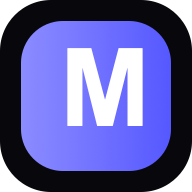
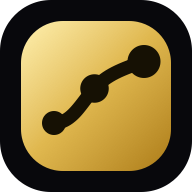
fix(web): rebuild broken iOS install sheet, add original brand mark
- InstallAppPrompt: iOS bottom sheet had zero matching CSS rules
  anywhere in globals.css, rendering fully unstyled; also used a
  native <ol> that double-rendered step numbers. Rebuilt the sheet
  as a proper fixed bottom sheet (safe-area padding, backdrop,
  body-scroll-lock, single close button, rounded top corners,
  no clipped buttons) with the plain-English copy required.
- Added BrandGlyph: an original SVG mark (ascending momentum trail
  through three connected nodes) replacing the placeholder "M"
  glyph everywhere it appeared (landing, auth pages, onboarding,
  install prompt, admin, user app), plus regenerated favicon/PWA
  icon assets from it.
- layout.tsx: fixed stale metadataBase pointing at an old Hostinger
  temp domain, added missing OpenGraph/Twitter share image.

diff --git a/apps/web/app/globals.css b/apps/web/app/globals.css
@@ -185,3 +185,31 @@ body{background:radial-gradient(900px 520px at 88% -8%,rgba(224,184,79,.075),tra
 }
 @media(max-width:620px){
  .app-main,.admin-main{padding:14px 12px 100px}.app-top,.admin-head{margin:-14px -12px 10px;padding:12px}.app-top h1,.admin-head h1{font-size:20px}.app-top small,.admin-head small{font-size:8px}.auto-toggle{font-size:9px;padding:8px}.app-grid-4,.admin-kpi-row{grid-template-columns:1fr 1fr;gap:7px}.stat-card{padding:12px}.stat-card>b{font-size:19px}.user-welcome{padding:18px}.user-welcome h2{font-size:34px}.user-quick-actions{grid-template-columns:repeat(3,1fr);gap:6px}.user-quick-actions button{padding:11px 7px;font-size:9px}.trader-grid{grid-template-columns:1fr}.admin-quick-grid{grid-template-columns:1fr 1fr}.admin-quick-grid button,.admin-quick-grid a{padding:11px}.owner-hero{grid-template-columns:1fr}.owner-mode{justify-self:stretch}.mobile-app-nav button,.admin-mobile-nav button{font-size:8px}.mobile-app-nav button svg,.admin-mobile-nav button svg{width:18px;height:18px}.copy-row{grid-template-columns:1fr auto!important}.copy-row .status-badge{display:none}.admin-table{min-width:760px}.admin-table-wrap{overflow:auto;border-radius:14px}.config-tabs{overflow-x:auto;flex-wrap:nowrap;padding-bottom:4px}.config-tabs button{white-space:nowrap}.form-grid{grid-template-columns:1fr}.health-grid{grid-template-columns:1fr 1fr}}
+
+/* Install prompt: iOS bottom sheet */
+.install-ios-wrap{position:fixed;inset:0;z-index:200;display:flex;align-items:flex-end;justify-content:center;background:rgba(4,4,7,.6);backdrop-filter:blur(3px);padding:0;box-sizing:border-box}
+.install-ios-sheet{position:relative;width:100%;max-width:480px;max-height:80dvh;overflow-y:auto;-webkit-overflow-scrolling:touch;background:#101018;border:1px solid rgba(255,255,255,.08);border-bottom:0;border-radius:24px 24px 0 0;padding:14px 20px calc(20px + env(safe-area-inset-bottom));box-sizing:border-box;box-shadow:0 -20px 60px rgba(0,0,0,.5);animation:install-sheet-up .22s ease-out}
+@keyframes install-sheet-up{from{transform:translateY(100%)}to{transform:translateY(0)}}
+.install-ios-handle{width:36px;height:4px;border-radius:2px;background:rgba(255,255,255,.18);margin:0 auto 14px}
+.install-ios-close{position:absolute;top:14px;right:16px;width:32px;height:32px;border-radius:50%;border:1px solid rgba(255,255,255,.1);background:rgba(255,255,255,.04);color:#c9cbd4;display:grid;place-items:center;cursor:pointer;flex-shrink:0}
+.install-ios-head{display:flex;flex-direction:column;align-items:center;text-align:center;gap:8px;padding-right:0;margin-bottom:4px}
+.install-ios-head .install-brand-icon{width:52px;height:52px;border-radius:16px;background:linear-gradient(135deg,#fff0ae 0%,#e0b84f 48%,#ad7c17 100%);display:grid;place-items:center;box-shadow:0 10px 24px -10px rgba(224,184,79,.5)}
+.install-ios-head b{font-size:19px;letter-spacing:-.02em;color:#f7f3ea}
+.install-ios-head p{margin:0;font-size:13px;color:#9a9fb0;max-width:280px;line-height:1.4}
+.install-ios-browser-note{font-size:11px;color:#e8b96d;text-align:center;background:rgba(247,185,95,.08);border:1px solid rgba(247,185,95,.18);border-radius:12px;padding:9px 12px;margin:12px 0 0}
+.install-ios-steps{display:grid;gap:10px;margin:18px 0}
+.install-step{display:flex;align-items:center;gap:12px}
+.install-step i{flex-shrink:0;width:26px;height:26px;border-radius:50%;background:rgba(224,184,79,.14);color:#e8b96d;display:grid;place-items:center;font-style:normal;font-weight:700;font-size:12px}
+.install-step span{display:flex;align-items:center;gap:6px;font-size:13.5px;color:#dcdee6;flex-wrap:wrap}
+.install-done{width:100%;height:46px;border-radius:14px;border:0;background:linear-gradient(135deg,#fff0ae 0%,#e0b84f 48%,#ad7c17 100%);color:#161104;font-weight:750;font-size:14px;cursor:pointer;margin-top:4px}
+
+/* Install prompt: Android/desktop bottom banner */
+.install-prompt-wrap{position:fixed;left:12px;right:12px;bottom:calc(12px + env(safe-area-inset-bottom));z-index:200;display:flex;justify-content:center}
+.install-prompt{width:100%;max-width:460px;display:flex;align-items:center;gap:12px;background:#101018;border:1px solid rgba(255,255,255,.09);border-radius:18px;padding:12px 14px;box-shadow:0 14px 40px rgba(0,0,0,.4);box-sizing:border-box}
+.install-prompt .install-brand-icon{width:36px;height:36px;border-radius:11px;background:linear-gradient(135deg,#fff0ae 0%,#e0b84f 48%,#ad7c17 100%);display:grid;place-items:center;flex-shrink:0}
+.install-copy{flex:1;min-width:0;display:grid;gap:2px}
+.install-copy b{font-size:12.5px;color:#f7f3ea}
+.install-copy span{font-size:10.5px;color:#9a9fb0;overflow:hidden;text-overflow:ellipsis;white-space:nowrap}
+.install-action{flex-shrink:0;display:flex;align-items:center;gap:6px;height:36px;padding:0 13px;border-radius:11px;border:0;background:linear-gradient(135deg,#fff0ae 0%,#e0b84f 48%,#ad7c17 100%);color:#161104;font-weight:700;font-size:11.5px;cursor:pointer}
+.install-close{flex-shrink:0;width:30px;height:30px;border-radius:50%;border:1px solid rgba(255,255,255,.1);background:transparent;color:#8a8fa0;display:grid;place-items:center;cursor:pointer}
+@media(max-width:420px){.install-ios-sheet{padding:14px 16px calc(18px + env(safe-area-inset-bottom))}.install-ios-head p{max-width:240px}}

diff --git a/apps/web/components/InstallAppPrompt.tsx b/apps/web/components/InstallAppPrompt.tsx
@@ -2,6 +2,7 @@
 
 import { useEffect, useState } from "react";
 import { Download, PlusSquare, Share, X } from "lucide-react";
+import {BrandGlyph} from "./BrandGlyph";
 
 const DISMISSED_KEY = "memecloud_install_dismissed_at";
 const INSTALLED_KEY = "memecloud_install_completed_at";
@@ -48,7 +49,7 @@ export function InstallAppPrompt() {
     if (location.pathname !== "/") return;
     const details = platformDetails();
     setPlatform(details);
-    if (details.isStandalone) return;
+    if (details.isStandalone) return; // never show once running as an installed PWA
     if (recentStorageValue(DISMISSED_KEY, DISMISS_COOLDOWN_MS) ||
       recentStorageValue(INSTALLED_KEY, INSTALLED_COOLDOWN_MS)) return;
 
@@ -72,6 +73,13 @@ export function InstallAppPrompt() {
     };
   }, []);
 
+  useEffect(() => {
+    if (!visible || !platform?.isIOS) return;
+    const prev = document.body.style.overflow;
+    document.body.style.overflow = "hidden";
+    return () => { document.body.style.overflow = prev; };
+  }, [visible, platform?.isIOS]);
+
   if (!platform || !visible || platform.isStandalone) return null;
 
   function dismiss() {
@@ -89,20 +97,21 @@ export function InstallAppPrompt() {
     setDeferred(null);
   }
 
-  if (platform.isIOS) return <div className="install-ios-wrap" data-testid="install-ios-guide">
-    <section className="install-ios-sheet" role="dialog" aria-modal="false" aria-labelledby="install-ios-title">
+  if (platform.isIOS) return <div className="install-ios-wrap" onClick={dismiss}>
+    <section className="install-ios-sheet" role="dialog" aria-modal="true" aria-labelledby="install-ios-title" onClick={e=>e.stopPropagation()}>
       <div className="install-ios-handle" />
+      <button className="install-ios-close" onClick={dismiss} aria-label="Close"><X size={18}/></button>
       <div className="install-ios-head">
-        <div className="install-brand-icon" aria-hidden="true">M</div>
-        <div><span>INSTALL MemeCloud</span><b id="install-ios-title">Use MemeCloud like a native app.</b></div>
-        <button onClick={dismiss} aria-label="Dismiss install guide"><X size={18}/></button>
+        <div className="install-brand-icon" aria-hidden="true"><BrandGlyph size={26}/></div>
+        <b id="install-ios-title">Install MemeCloud</b>
+        <p>Use MemeCloud like an app on your iPhone.</p>
       </div>
-      {!platform.isSafari && <p className="install-ios-browser-note">For the standard Home Screen experience, open this page in Safari first.</p>}
-      <ol className="install-ios-steps">
-        <li><i>1</i><div><b>Tap the Share button</b><span><Share size={15}/> Find Share in the Safari toolbar.</span></div></li>
-        <li><i>2</i><div><b>Choose “Add to Home Screen”</b><span><PlusSquare size={15}/> Scroll down if it is not immediately visible.</span></div></li>
-        <li><i>3</i><div><b>Tap Add</b><span>MemeCloud will open full-screen at secure sign-in from your Home Screen.</span></div></li>
-      </ol>
+      {!platform.isSafari && <p className="install-ios-browser-note">Open this page in Safari to install it.</p>}
+      <div className="install-ios-steps">
+        <div className="install-step"><i>1</i><span>Tap <Share size={14}/> Share</span></div>
+        <div className="install-step"><i>2</i><span>Tap <PlusSquare size={14}/> "Add to Home Screen"</span></div>
+        <div className="install-step"><i>3</i><span>Tap "Add"</span></div>
+      </div>
       <button className="install-done" onClick={dismiss}>Got it</button>
     </section>
   </div>;
@@ -111,7 +120,7 @@ export function InstallAppPrompt() {
 
   return <div className="install-prompt-wrap" data-testid="install-app-banner" data-platform={platform.isAndroid ? "android" : "desktop"}>
     <section className="install-prompt">
-        <div className="install-brand-icon" aria-hidden="true">M</div>
+        <div className="install-brand-icon" aria-hidden="true"><BrandGlyph size={22}/></div>
         <div className="install-copy"><b>Install MemeCloud</b><span>Open MemeCloud like a native app.</span></div>
         <button className="install-action" onClick={install} data-testid="install-app-btn"><Download size={14}/> Install</button>
         <button className="install-close" onClick={dismiss} aria-label="Dismiss install prompt"><X size={17}/></button>

diff --git a/apps/web/app/admin/page.tsx b/apps/web/app/admin/page.tsx
@@ -2,6 +2,7 @@
 import {useEffect,useState} from "react";
 import {apiFetch,plainError,money} from "../../lib/api";
 import {Users,Radio,WalletCards,Settings2,Mail,Bell,Send,Activity,ShieldCheck,BarChart3,RefreshCw,Plus,KeyRound,Gauge,SlidersHorizontal,ChevronRight,Home,Wallet,Database,PlugZap,Coins,Fish,AlertTriangle,Layers} from "lucide-react";
+import {BrandGlyph} from "../../components/BrandGlyph";
 
 const sections=[
  ["overview","Control",Gauge],["brain","Global Brain",BarChart3],["tokens","Tokens",Coins],["whales","Whales",Fish],["users","Users",Users],["traders","Wallets",Radio],["signals","Decisions",Activity],
@@ -41,7 +42,7 @@ export default function Admin(){
  useEffect(()=>{void load("overview")},[]);
  function change(t:string){setTab(t);void load(t)}
  return <main className="admin-layout">
-  <aside className="admin-side"><a className="brand" href="/app/"><span className="brandmark small">M</span><span><b>MemeCloud</b><small>Owner controls</small></span></a><nav>{navGroups.map(([label,ids])=><div className="admin-nav-group" key={label}><small>{label}</small>{ids.map(id=>{const s=sections.find(x=>x[0]===id);if(!s)return null;const[,name,Icon]=s;return <button key={id} data-admin-target={id} className={tab===id?"active":""} onClick={()=>change(id)}><Icon size={15}/><span>{name}</span></button>})}</div>)}</nav><div className="admin-side-foot"><div className="owner-chip"><ShieldCheck size={15}/><div><b>{me?.displayName||"Platform owner"}</b><small>{me?.email||"Full control"}</small></div></div><a className="soft-action" href="/app/"><Home size={13}/> Back to MemeCloud</a></div></aside>
+  <aside className="admin-side"><a className="brand" href="/app/"><span className="brandmark small"><BrandGlyph size={18}/></span><span><b>MemeCloud</b><small>Owner controls</small></span></a><nav>{navGroups.map(([label,ids])=><div className="admin-nav-group" key={label}><small>{label}</small>{ids.map(id=>{const s=sections.find(x=>x[0]===id);if(!s)return null;const[,name,Icon]=s;return <button key={id} data-admin-target={id} className={tab===id?"active":""} onClick={()=>change(id)}><Icon size={15}/><span>{name}</span></button>})}</div>)}</nav><div className="admin-side-foot"><div className="owner-chip"><ShieldCheck size={15}/><div><b>{me?.displayName||"Platform owner"}</b><small>{me?.email||"Full control"}</small></div></div><a className="soft-action" href="/app/"><Home size={13}/> Back to MemeCloud</a></div></aside>
   <section className="admin-main"><div className="admin-head"><div><small>MemeCloud · OWNER CONTROL</small><h1>{sections.find(x=>x[0]===tab)?.[1]}</h1><p>{tab==="overview"?"Run the platform from one place.":tab==="config"?"APIs, fees, email, push, discovery and trading rules.":"Real platform data and controls."}</p></div><button className="soft-action" onClick={()=>load()}><RefreshCw size={12}/> Refresh</button></div>
    {err&&<div className="auth-error">{err}</div>}{loading&&!err?<div className="loading"><div><div className="spinner"/>Loading admin data…</div></div>:<>
     {tab==="overview"&&<Overview d={data}/>}

diff --git a/apps/web/app/onboarding/page.tsx b/apps/web/app/onboarding/page.tsx
@@ -2,6 +2,7 @@
 import {useEffect,useMemo,useState} from "react";
 import {ArrowRight,ArrowLeft,Check,Users,WalletCards,Bell,ShieldCheck,Zap} from "lucide-react";
 import {apiFetch,money,plainError} from "../../lib/api";
+import {BrandGlyph} from "../../components/BrandGlyph";
 
 function toBase64(bytes:Uint8Array){let s="";bytes.forEach(b=>s+=String.fromCharCode(b));return btoa(s)}
 export default function Onboarding(){
@@ -12,7 +13,7 @@ export default function Onboarding(){
  async function finish(){setBusy(true);setErr("");try{await apiFetch("/v1/me/onboarding",{method:"POST",body:JSON.stringify({traderIds:selected,defaultAmountUsd:amount,autoCopyEnabled:auto})});location.href="/app/"}catch(e){setErr(plainError(e));setBusy(false)}}
  if(busy&&!data)return <main className="app-page"><div className="loading"><div><div className="spinner"/>Preparing your account…</div></div></main>;
  const steps=["Welcome","Wallet","Traders","Trading","Review"];
- return <main className="onboarding-page"><div className="onboarding-shell"><a className="brand" href="/"><span className="brandmark small">M</span><b>MemeCloud</b></a><div className="onboarding-progress">{steps.map((s,i)=><div key={s} className={i<=step?"active":""}><i>{i<step?<Check size={12}/>:i+1}</i><span>{s}</span></div>)}</div>
+ return <main className="onboarding-page"><div className="onboarding-shell"><a className="brand" href="/"><span className="brandmark small"><BrandGlyph size={18}/></span><b>MemeCloud</b></a><div className="onboarding-progress">{steps.map((s,i)=><div key={s} className={i<=step?"active":""}><i>{i<step?<Check size={12}/>:i+1}</i><span>{s}</span></div>)}</div>
   {err&&<div className="auth-error">{err}</div>}
   <section className="onboarding-card">
    {step===0&&<><span className="eyebrow">YOUR PRIVATE TRADING WORKSPACE</span><h1>Set up the account around you.</h1><p>Your traders, copy amounts, positions, history and notifications are private to this account. We monitor each source wallet once and make an independent decision for you.</p><div className="onboard-features"><div><Users/><b>Your traders</b><span>Follow, Watch or Auto Copy independently.</span></div><div><Zap/><b>24/7 engine</b><span>The VPS keeps monitoring after you close the app.</span></div><div><ShieldCheck/><b>You stay in control</b><span>Login is separate from trading authorization.</span></div></div></>}

diff --git a/apps/web/app/reset-password/page.tsx b/apps/web/app/reset-password/page.tsx
@@ -1,7 +1,8 @@
 "use client";
 import {useState} from "react"; import {apiFetch,plainError} from "../../lib/api";
+import {BrandGlyph} from "../../components/BrandGlyph";
 export default function Reset(){
  const[pw,setPw]=useState("");const[msg,setMsg]=useState("");const[err,setErr]=useState("");
  async function go(e:React.FormEvent){e.preventDefault();setErr("");const token=new URLSearchParams(location.search).get("token")||"";try{await apiFetch("/auth/reset-password",{method:"POST",body:JSON.stringify({token,password:pw})},false);setMsg("Password changed. You can sign in now.");}catch(e){setErr(plainError(e))}}
- return <main className="auth-page" style={{gridTemplateColumns:"1fr"}}><section className="auth-box-wrap"><div className="auth-box"><a className="brand" href="/"><span className="brandmark small">M</span><b>MemeCloud</b></a><h2>Choose a new password</h2><form className="auth-form" onSubmit={go}><label className="field"><span>New password</span><input type="password" value={pw} onChange={e=>setPw(e.target.value)} minLength={8} required/></label>{msg&&<div className="auth-success">{msg}</div>}{err&&<div className="auth-error">{err}</div>}<button className="action-primary">Save new password</button></form><div className="form-foot"><a href="/login/">Sign in</a></div></div></section></main>
+ return <main className="auth-page" style={{gridTemplateColumns:"1fr"}}><section className="auth-box-wrap"><div className="auth-box"><a className="brand" href="/"><span className="brandmark small"><BrandGlyph size={18}/></span><b>MemeCloud</b></a><h2>Choose a new password</h2><form className="auth-form" onSubmit={go}><label className="field"><span>New password</span><input type="password" value={pw} onChange={e=>setPw(e.target.value)} minLength={8} required/></label>{msg&&<div className="auth-success">{msg}</div>}{err&&<div className="auth-error">{err}</div>}<button className="action-primary">Save new password</button></form><div className="form-foot"><a href="/login/">Sign in</a></div></div></section></main>
 }

diff --git a/apps/web/app/forgot-password/page.tsx b/apps/web/app/forgot-password/page.tsx
@@ -1,7 +1,8 @@
 "use client";
 import {useState} from "react"; import {apiFetch,plainError} from "../../lib/api";
+import {BrandGlyph} from "../../components/BrandGlyph";
 export default function Forgot(){
  const[email,setEmail]=useState("");const[msg,setMsg]=useState("");const[err,setErr]=useState("");
  async function go(e:React.FormEvent){e.preventDefault();setErr("");try{await apiFetch("/auth/forgot-password",{method:"POST",body:JSON.stringify({email})},false);setMsg("If that email exists, a reset link has been sent.");}catch(e){setErr(plainError(e))}}
- return <main className="auth-page" style={{gridTemplateColumns:"1fr"}}><section className="auth-box-wrap"><div className="auth-box"><a className="brand" href="/"><span className="brandmark small">M</span><b>MemeCloud</b></a><h2>Reset password</h2><p>Enter your account email.</p><form className="auth-form" onSubmit={go}><label className="field"><span>Email</span><input type="email" value={email} onChange={e=>setEmail(e.target.value)} required/></label>{msg&&<div className="auth-success">{msg}</div>}{err&&<div className="auth-error">{err}</div>}<button className="action-primary">Send reset link</button></form><div className="form-foot"><a href="/login/">Back to sign in</a></div></div></section></main>
+ return <main className="auth-page" style={{gridTemplateColumns:"1fr"}}><section className="auth-box-wrap"><div className="auth-box"><a className="brand" href="/"><span className="brandmark small"><BrandGlyph size={18}/></span><b>MemeCloud</b></a><h2>Reset password</h2><p>Enter your account email.</p><form className="auth-form" onSubmit={go}><label className="field"><span>Email</span><input type="email" value={email} onChange={e=>setEmail(e.target.value)} required/></label>{msg&&<div className="auth-success">{msg}</div>}{err&&<div className="auth-error">{err}</div>}<button className="action-primary">Send reset link</button></form><div className="form-foot"><a href="/login/">Back to sign in</a></div></div></section></main>
 }

diff --git a/apps/web/components/AuthCard.tsx b/apps/web/components/AuthCard.tsx
@@ -2,6 +2,7 @@
 import { useState } from "react";
 import { ArrowRight, WalletCards, CheckCircle2, ShieldCheck, Zap } from "lucide-react";
 import { apiFetch, login, signup, setAccessToken, plainError } from "../lib/api";
+import {BrandGlyph} from "./BrandGlyph";
 
 function toBase64(bytes:Uint8Array){
   let s=""; bytes.forEach(b=>s+=String.fromCharCode(b)); return btoa(s);
@@ -39,7 +40,7 @@ export default function AuthCard({mode}:{mode:"login"|"signup"}){
 
   return <div className="auth-page">
     <section className="auth-art">
-      <a className="brand" href="/"><span className="brandmark">M</span><b>MemeCloud</b></a>
+      <a className="brand" href="/"><span className="brandmark"><BrandGlyph size={24}/></span><b>MemeCloud</b></a>
       <div className="auth-art-copy"><span>AUTONOMOUS CRYPTO INTELLIGENCE</span><h1>Discover.<br/>Decide.<br/>Manage.</h1><p>Your private MemeCloud workspace combines market discovery, wallet intelligence, scoring, execution controls and position management without fabricating account data.</p></div>
       <div className="auth-points">
         <div className="auth-point"><CheckCircle2 size={15}/> Follow, watch or Auto Copy each trader independently</div>
@@ -49,7 +50,7 @@ export default function AuthCard({mode}:{mode:"login"|"signup"}){
     </section>
     <section className="auth-box-wrap">
       <div className="auth-box">
-        <a className="brand" href="/"><span className="brandmark small">M</span><b>MemeCloud</b></a>
+        <a className="brand" href="/"><span className="brandmark small"><BrandGlyph size={18}/></span><b>MemeCloud</b></a>
         <h2>{mode==="signup"?"Create your account":"Welcome back"}</h2>
         <p>{mode==="signup"?"Start with an account, then choose your traders and connect a trading wallet separately.":"Sign in to your private dashboard."}</p>
         <form className="auth-form" onSubmit={submit}>

diff --git a/apps/web/app/page.tsx b/apps/web/app/page.tsx
@@ -1,13 +1,14 @@
 "use client";
 import { ArrowRight, CheckCircle2 } from "lucide-react";
 import { InstallAppPrompt } from "../components/InstallAppPrompt";
+import {BrandGlyph} from "../components/BrandGlyph";
 
 export default function Landing(){
   return <main className="landing">
     <div className="landing-glow one"/><div className="landing-glow two"/>
     <div className="public-shell">
       <header className="public-header">
-        <a className="brand" href="/"><span className="brandmark">M</span><b>MemeCloud</b></a>
+        <a className="brand" href="/"><span className="brandmark"><BrandGlyph size={24}/></span><b>MemeCloud</b></a>
         <div className="public-actions"><a className="ghost-link" href="/login/">Sign in</a><a className="primary-link" href="/signup/">Start trading <ArrowRight size={16}/></a></div>
       </header>
 
@@ -19,7 +20,7 @@ export default function Landing(){
 
         <div className="product-preview">
           <div className="preview-side">
-            <span className="brandmark small">M</span>
+            <span className="brandmark small"><BrandGlyph size={18}/></span>
             <i/><i/><i/><i/><i/>
           </div>
           <div className="preview-body">
@@ -37,7 +38,7 @@ export default function Landing(){
         </div>
       </section>
 
-      <footer className="public-footer"><div className="brand"><span className="brandmark small">M</span><b>MemeCloud</b></div><span>Simulation until you go live</span></footer>
+      <footer className="public-footer"><div className="brand"><span className="brandmark small"><BrandGlyph size={18}/></span><b>MemeCloud</b></div><span>Simulation until you go live</span></footer>
     </div>
     <InstallAppPrompt/>
   </main>

diff --git a/apps/web/app/app/page.tsx b/apps/web/app/app/page.tsx
@@ -6,6 +6,7 @@ import {
   TrendingUp,Flame,Sparkles,CheckCheck,ArrowLeft,Wallet,Zap,ArrowDownToLine
 } from "lucide-react";
 import {apiFetch,logout,money,pct,plainError} from "../../lib/api";
+import {BrandGlyph} from "../../components/BrandGlyph";
 
 type View="home"|"discover"|"trade"|"positions"|"profile"|"traders"|"community"|"activity";
 const nav:[View,string,any][]=[["home","Home",Home],["discover","Discover",TrendingUp],["trade","Trade",Zap],["positions","Portfolio",WalletCards],["profile","Account",Settings2]];
@@ -95,7 +96,7 @@ export default function AppPage(){
   return <main className="app-page">
     <div className="app-layout">
       <aside className="app-sidebar">
-        <a className="brand" href="/"><span className="brandmark small">M</span><b>MemeCloud</b></a>
+        <a className="brand" href="/"><span className="brandmark small"><BrandGlyph size={18}/></span><b>MemeCloud</b></a>
         <nav className="app-nav">{nav.map(([id,label,Icon])=><button key={id} onClick={()=>setView(id)} className={view===id?"active":""}><Icon size={16}/>{label}</button>)}</nav>
         <div className="sidebar-bottom">
           <div className="user-mini"><div className="avatar">{initials(me?.displayName||me?.email)}</div><div><b>{me?.displayName||"Your account"}</b><small>{me?.email||me?.wallets?.[0]?.address?.slice(0,10)||"Wallet account"}</small></div></div>

diff --git a/apps/web/app/layout.tsx b/apps/web/app/layout.tsx
@@ -3,7 +3,7 @@ import type { Metadata, Viewport } from "next";
 import { PwaRegistrar } from "../components/PwaRegistrar";
 
 export const metadata: Metadata = {
-  metadataBase: new URL("https://wheat-viper-505237.hostingersite.com"),
+  metadataBase: new URL("https://meme.xaucloud.io"),
   title: "MemeCloud — Autonomous Crypto Intelligence",
   description: "MemeCloud discovers, scores and manages crypto opportunities with explainable market and wallet intelligence.",
   manifest: "/manifest.webmanifest",
@@ -17,7 +17,14 @@ export const metadata: Metadata = {
     title: "MemeCloud — Autonomous Crypto Intelligence",
     description: "Discovery, intelligence, scoring, decisions, execution and position management in one system.",
     type: "website",
-    siteName: "MemeCloud"
+    siteName: "MemeCloud",
+    images: [{ url: "/og-image.png", width: 1200, height: 630, alt: "MemeCloud" }]
+  },
+  twitter: {
+    card: "summary_large_image",
+    title: "MemeCloud — Autonomous Crypto Intelligence",
+    description: "Discovery, intelligence, scoring, decisions, execution and position management in one system.",
+    images: ["/og-image.png"]
   },
   appleWebApp: { capable: true, statusBarStyle: "black-translucent", title: "MemeCloud" }
 };

diff --git a/apps/web/app/verify-email/page.tsx b/apps/web/app/verify-email/page.tsx
@@ -1,7 +1,8 @@
 "use client";
 import {useEffect,useState} from "react"; import {apiFetch,plainError} from "../../lib/api";
+import {BrandGlyph} from "../../components/BrandGlyph";
 export default function Verify(){
  const[msg,setMsg]=useState("Verifying…");
  useEffect(()=>{const token=new URLSearchParams(location.search).get("token")||"";apiFetch("/auth/verify-email",{method:"POST",body:JSON.stringify({token})},false).then(()=>setMsg("Email verified. You can continue to your dashboard.")).catch(e=>setMsg(plainError(e)))},[]);
- return <main className="auth-page" style={{gridTemplateColumns:"1fr"}}><section className="auth-box-wrap"><div className="auth-box"><a className="brand" href="/"><span className="brandmark small">M</span><b>MemeCloud</b></a><h2>{msg}</h2><a className="hero-primary" href="/app/">Open dashboard</a></div></section></main>
+ return <main className="auth-page" style={{gridTemplateColumns:"1fr"}}><section className="auth-box-wrap"><div className="auth-box"><a className="brand" href="/"><span className="brandmark small"><BrandGlyph size={18}/></span><b>MemeCloud</b></a><h2>{msg}</h2><a className="hero-primary" href="/app/">Open dashboard</a></div></section></main>
 }

diff --git a/apps/web/components/BrandGlyph.tsx b/apps/web/components/BrandGlyph.tsx
@@ -1,0 +1,13 @@
+// MemeCloud brand mark: an ascending momentum trail through three growing
+// network nodes — reads as rising meme momentum + connected on-chain
+// wallets, not a literal letter, cloud, or coin.
+export function BrandGlyph({ size = 24 }: { size?: number }) {
+  return (
+    <svg width={size} height={size} viewBox="0 0 100 100" fill="none" xmlns="http://www.w3.org/2000/svg" aria-hidden="true">
+      <path d="M22 68 C 34 68, 40 55, 48 46 C 56 37, 64 33, 82 27" stroke="#161104" strokeWidth="9" fill="none" strokeLinecap="round" />
+      <circle cx="22" cy="68" r="8" fill="#161104" />
+      <circle cx="49" cy="45" r="9.5" fill="#161104" />
+      <circle cx="82" cy="27" r="11" fill="#161104" />
+    </svg>
+  );
+}
